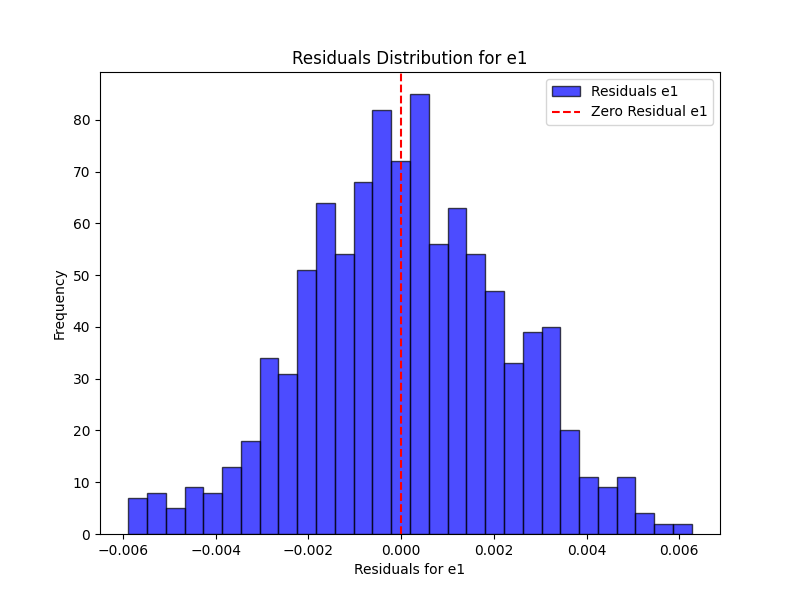
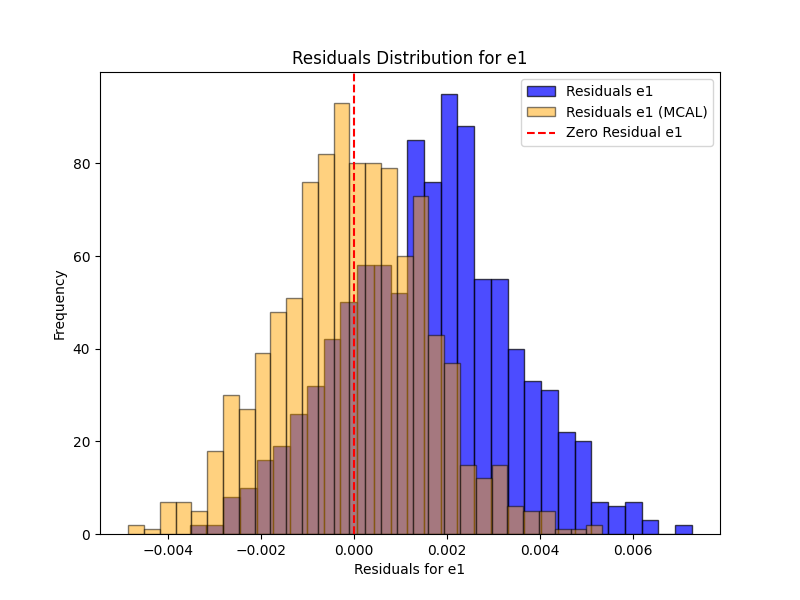
added few functions

diff --git a/shearnet/evaluate.py b/shearnet/evaluate.py
@@ -128,6 +128,7 @@ def main():
     #import pdb; pdb.set_trace()
 
     if args.plot_residuals:
+        print("Plotting residuals...")
         residuals_path = os.path.join(args.plot_path, args.model_name, "residuals_plot") if args.plot_path else None
         plot_residuals(
             test_images,
@@ -140,18 +141,21 @@ def main():
         )
 
     if args.plot_samples:
+        print("Plotting samples...")
         samples_path = os.path.join(args.plot_path, args.model_name, "samples_plot.png") if args.plot_path else None
         visualize_samples(test_images, test_labels, predicted_labels, path=samples_path)
 
     if args.plot_scatter:
+        print("Plotting scatter plots...")
         scatter_path = os.path.join(args.plot_path, args.model_name, "scatter_plot") if args.plot_path else None
         preds_mcal = mcal_preds(test_images, args.psf_fwhm) if args.mcal else None
         plot_true_vs_predicted(test_labels, predicted_labels, path=scatter_path, mcal=args.mcal, preds_mcal=preds_mcal)
 
     if args.plot_animation:
+        pass # Under development
         animation_path = os.path.join(args.plot_path, args.model_name, "animation_plot") if args.plot_path else None
         epochs = np.arange(1, 101)  # Assuming 100 epochs
-        animate_model_epochs(test_labels, load_path, args.plot_path, epochs, model_name=args.model_name, mcal=args.mcal, preds_mcal=preds_mcal)
+        animate_model_epochs(test_labels, load_path, args.plot_path, epochs, state=state, model_name=args.model_name, mcal=args.mcal, preds_mcal=preds_mcal)
 
 
 if __name__ == "__main__":

diff --git a/shearnet/cli.py b/shearnet/cli.py
@@ -40,7 +40,7 @@ def main():
     os.makedirs(plot_path, exist_ok=True) if plot_path else None
 
     get_device()
-    
+
     train_images, train_labels = generate_dataset(args.samples, args.psf_fwhm)
     rng_key = random.PRNGKey(args.seed)
     print(f"Shape of training images: {train_images.shape}")
@@ -57,6 +57,7 @@ def main():
                         )
 
     if args.plot:
+        print("Plotting learning curve...")
         plot_path = os.path.join(args.plot_path, args.model_name, "learning_curve.png") if args.plot_path else None
         plot_learning_curve(epoch_loss, plot_path)
 

diff --git a/shearnet/plot_helpers.py b/shearnet/plot_helpers.py
@@ -251,7 +251,7 @@ def plot_true_vs_predicted_anim(true_labels, predicted_labels, path=None, mcal=F
     else:
         plt.show()
 
-def animate_model_epochs(true_labels, load_path, plot_path, epochs, model_name="model", mcal=False, preds_mcal=None):
+def animate_model_epochs(true_labels, load_path, plot_path, epochs, state, model_name="model", mcal=False, preds_mcal=None):
     """Create an animation that shows the predictions of the model over different epochs."""
     
     # Load the trained model at each epoch

diff --git a/README.md b/README.md
@@ -51,7 +51,7 @@ Below is an example comparison of shear estimation results obtained from `shearn
 
 
 ### **Comparison of Predictions**
-<img src="./plots/dense/scatter_plot_e2_scatter.png" alt="Comparison of Predictions" width="600"/>
+<img src="./plots/dense/scatter_plot_e1_scatter.png" alt="Comparison of Predictions" width="600"/>
 
 ### **Mean Squared Error (MSE) Comparison**
 | Method             | MSE               |
@@ -93,7 +93,7 @@ shearnet-train --epochs 50 --batch_size 50 --samples 10000  --psf_fwhm 1.0 --sav
 After you have successfully trained a model and saved it to the checkpoint directory with a specific model name, you can load up that model and evaluate its performance on a newly generated simulations of test data: 
 
 ```bash
-shearnet-eval --load_path ./model_checkpoint --model_name dense --test_samples 1000 --psf_fwhm 1.0 --plot_residuals --plot_samples --plot_path ./plots/ --plot_scatter
+shearnet-eval --load_path ./model_checkpoint --model_name dense --test_samples 1000 --psf_fwhm 1.0 --plot_residuals --plot_samples --plot_path ./plots/ --plot_scatter --mcal
 ```
 
 ### **Command-Line Arguments**
